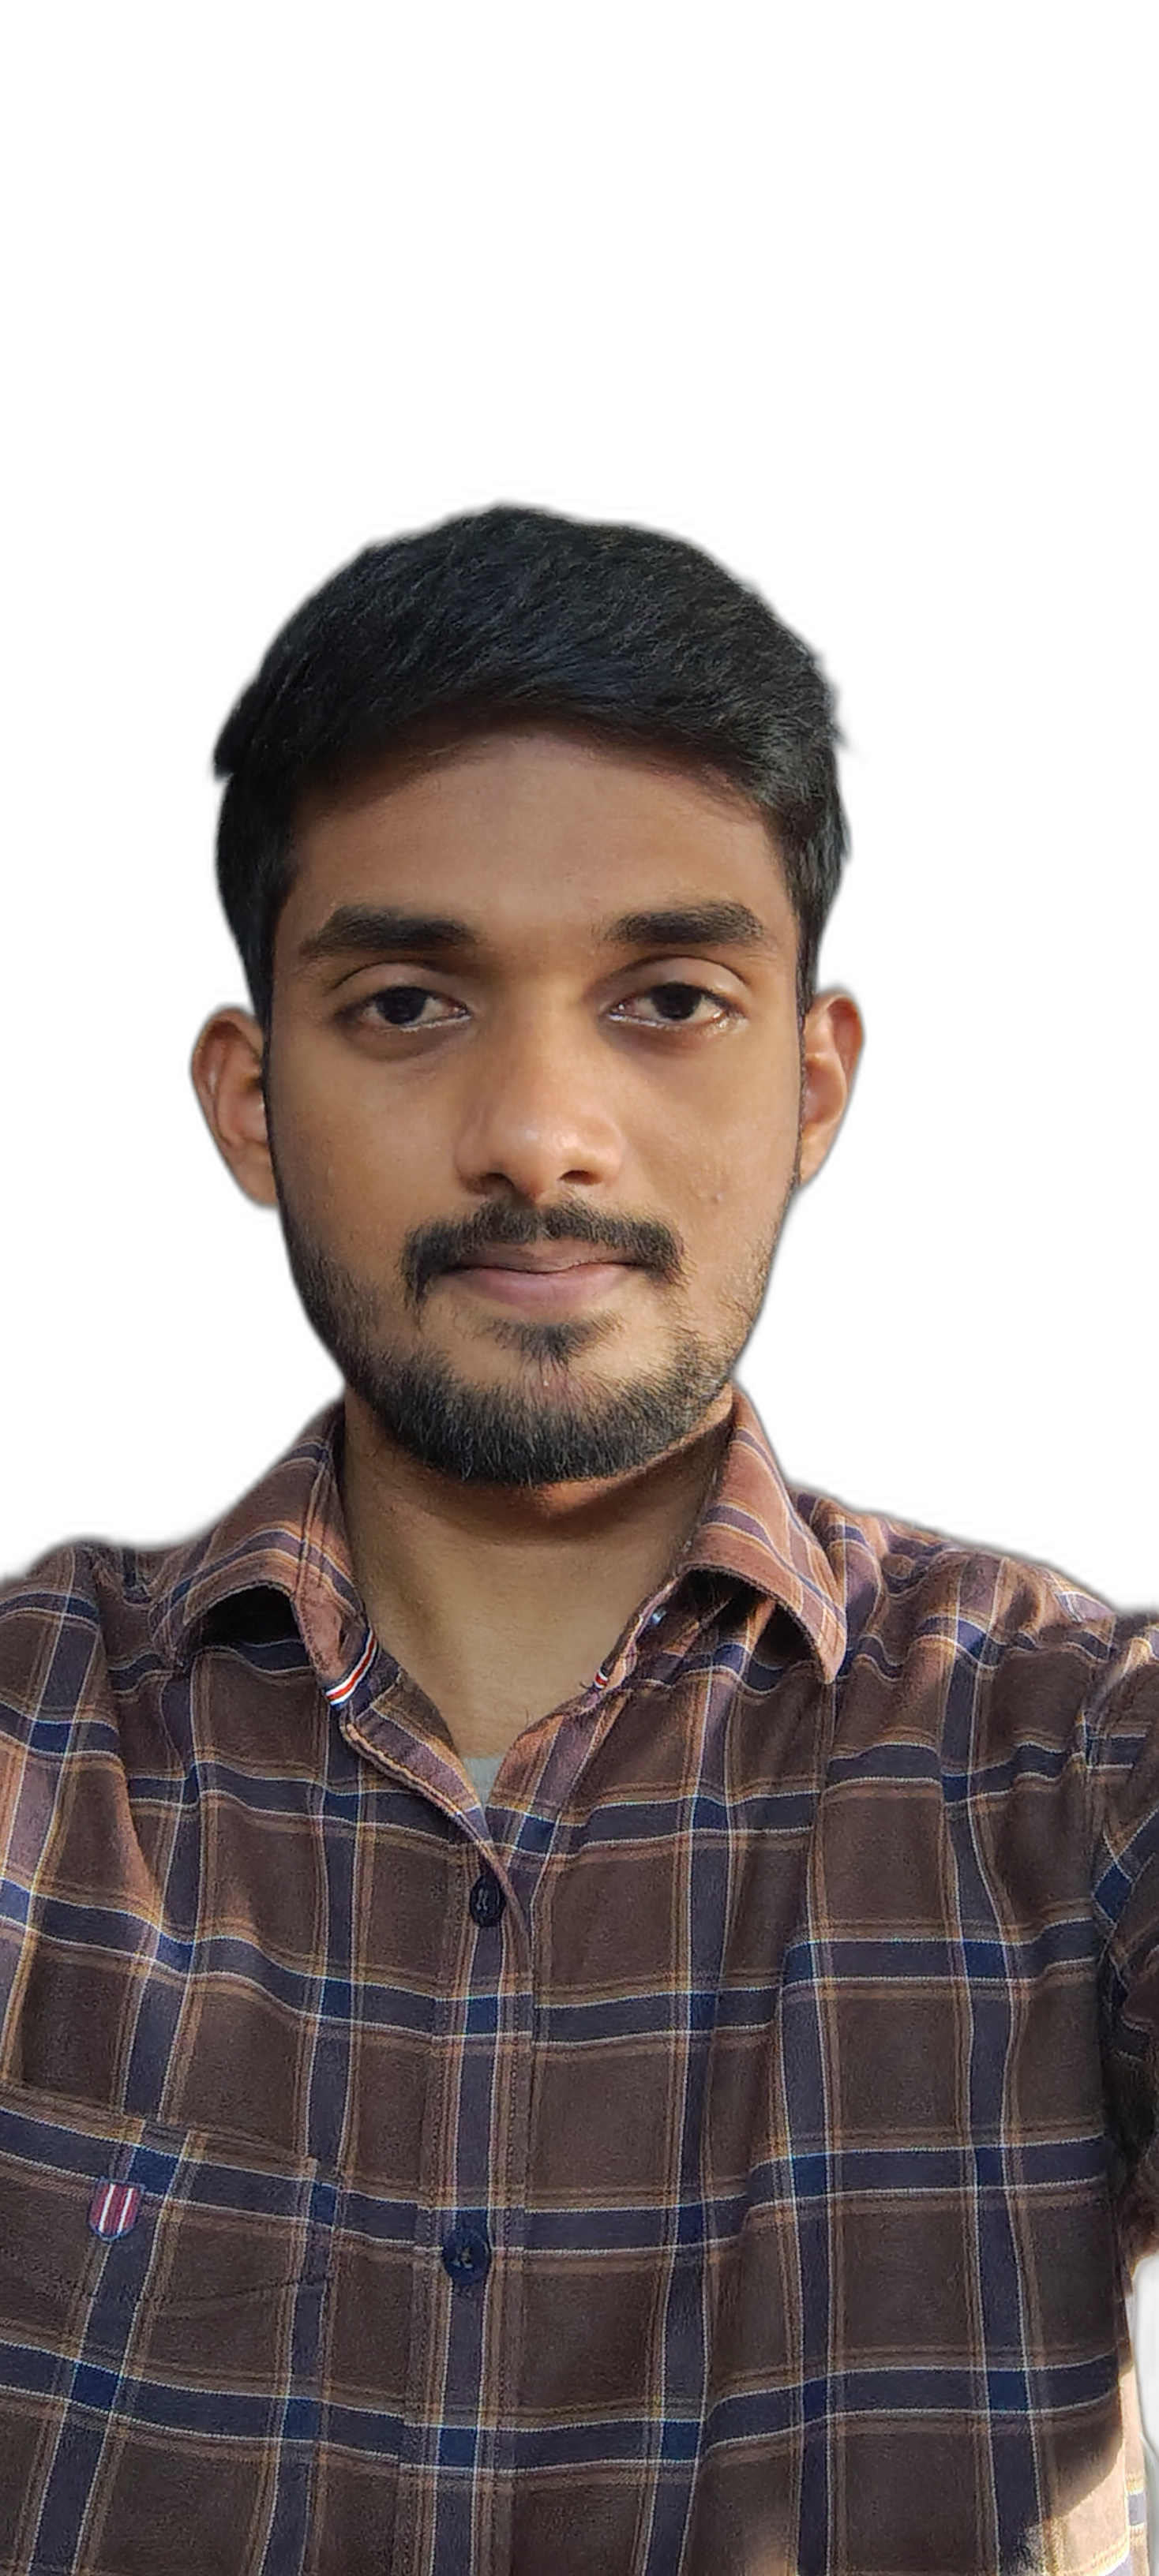
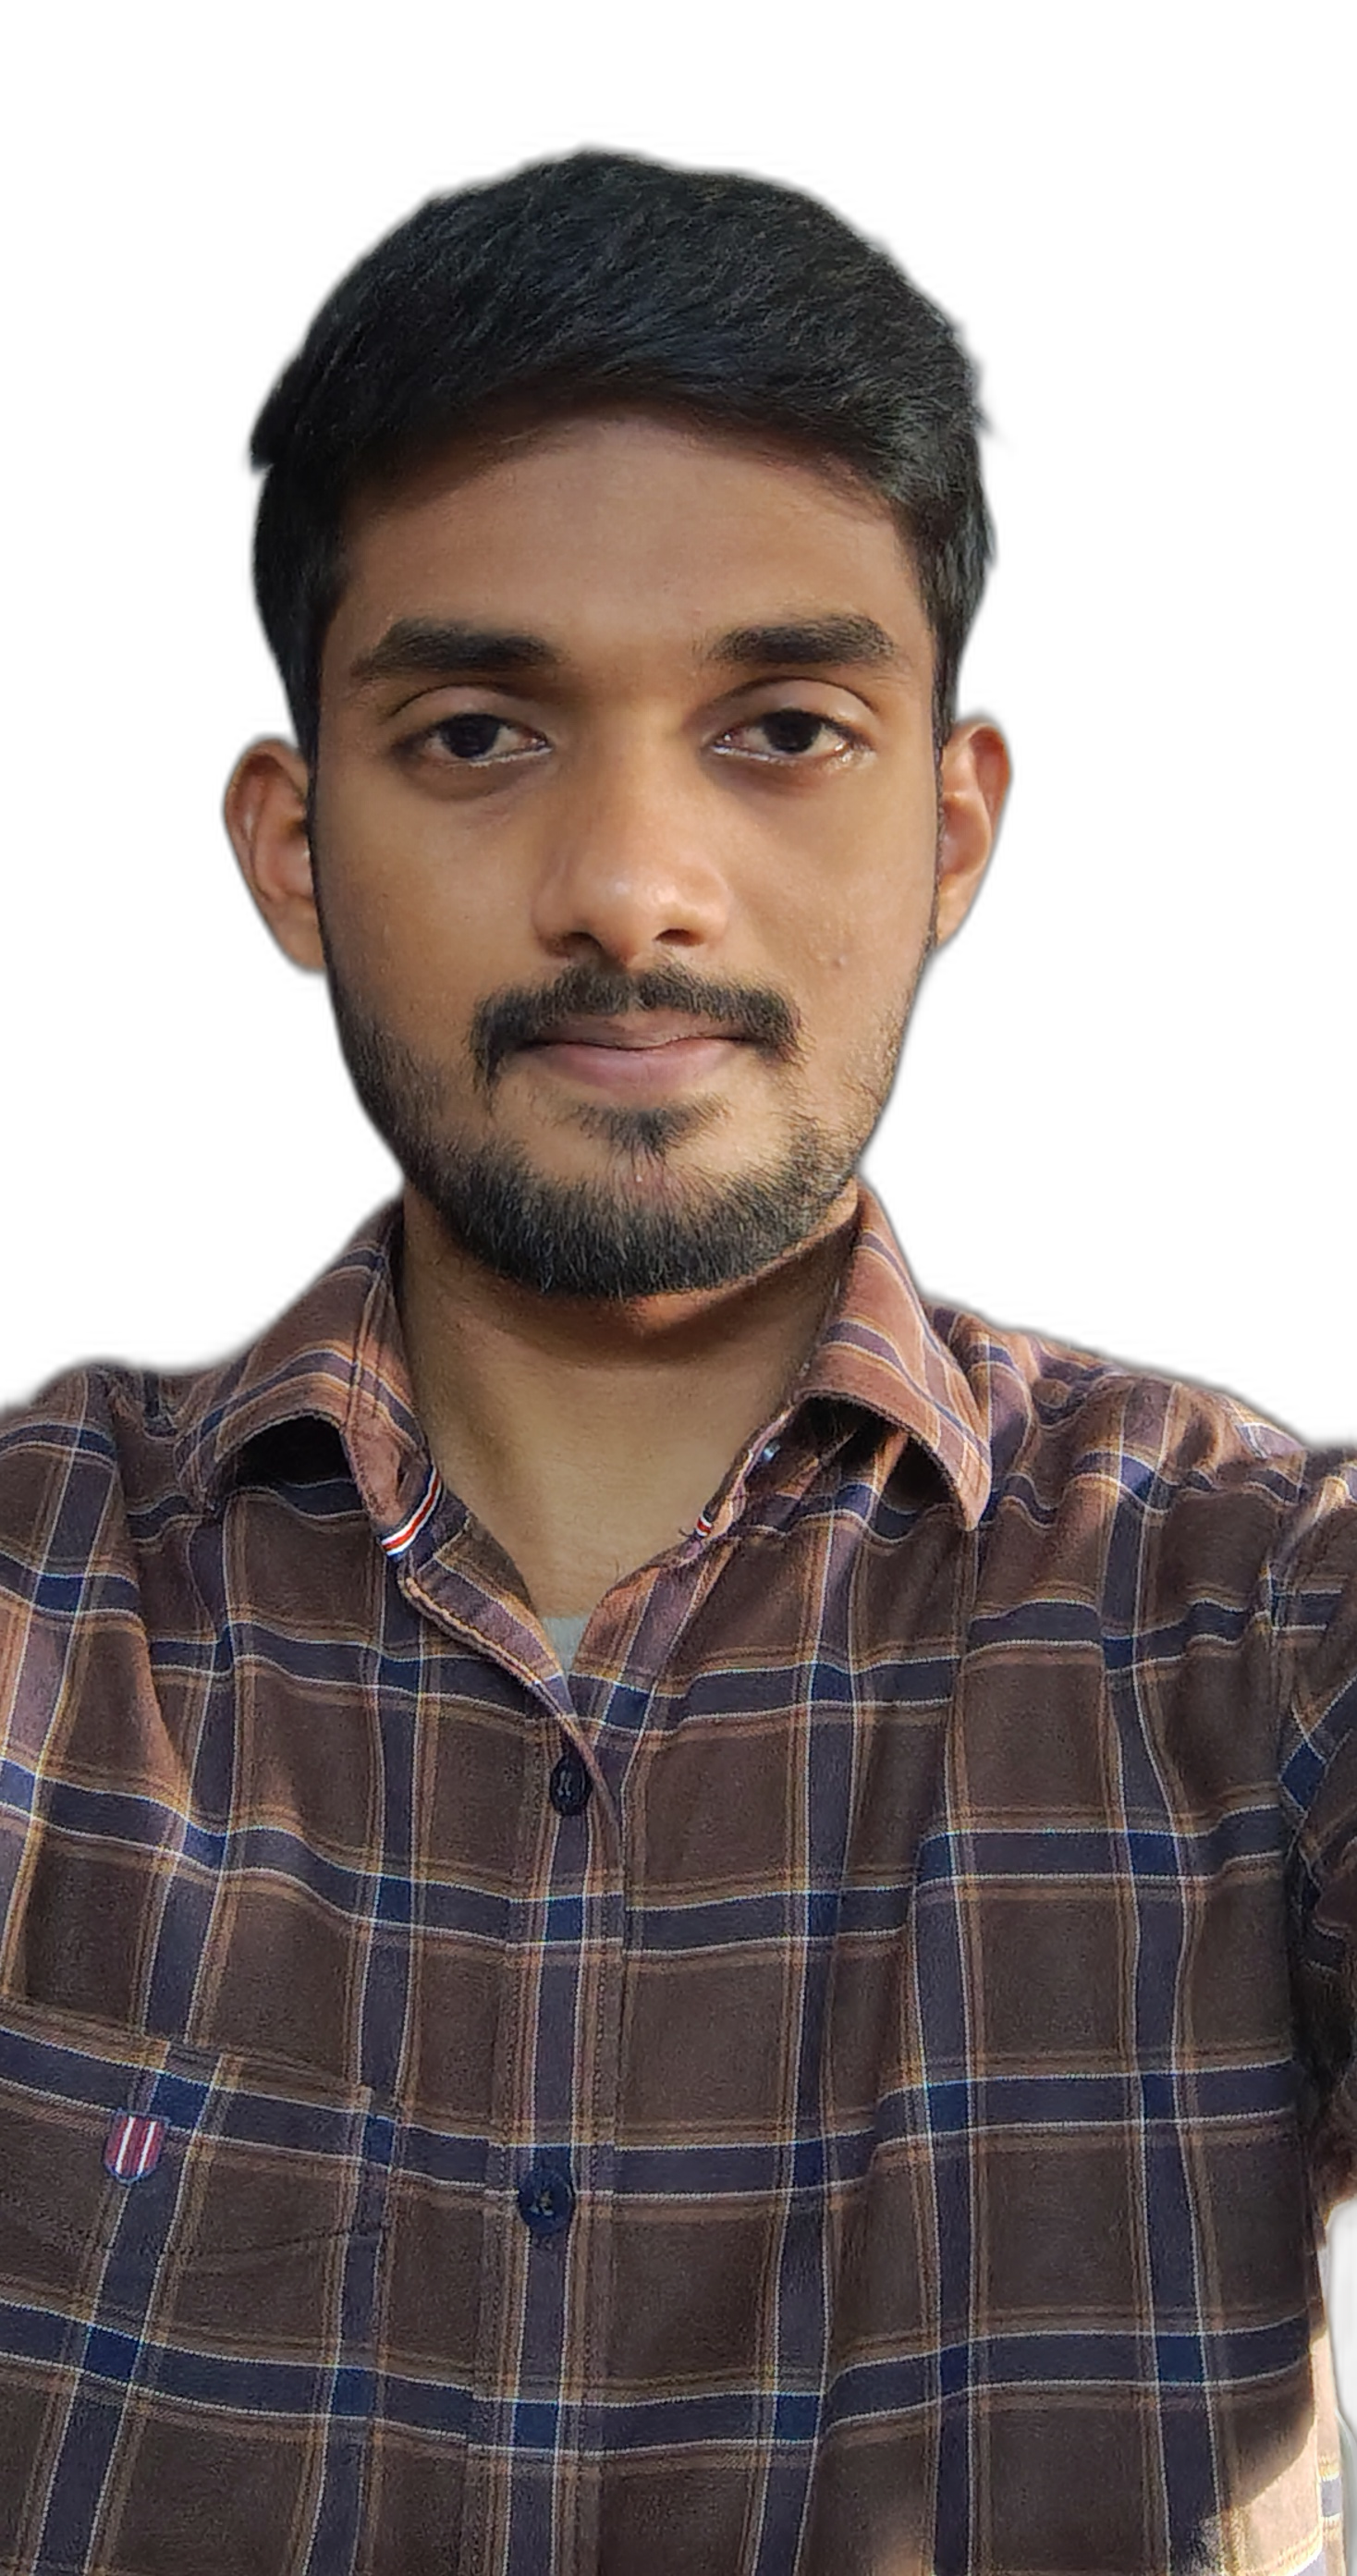
Crop profile image and revert object-top

diff --git a/src/components/Hero.jsx b/src/components/Hero.jsx
@@ -112,7 +112,7 @@ export default function Hero() {
             <img
               src={profileImg}
               alt="Dasari Vinay — Python Developer"
-              className="absolute inset-1 w-[calc(100%-8px)] h-[calc(100%-8px)] rounded-full object-cover object-top border-4 border-white dark:border-gray-900 shadow-2xl"
+              className="absolute inset-1 w-[calc(100%-8px)] h-[calc(100%-8px)] rounded-full object-cover border-4 border-white dark:border-gray-900 shadow-2xl"
             />
           </div>
 